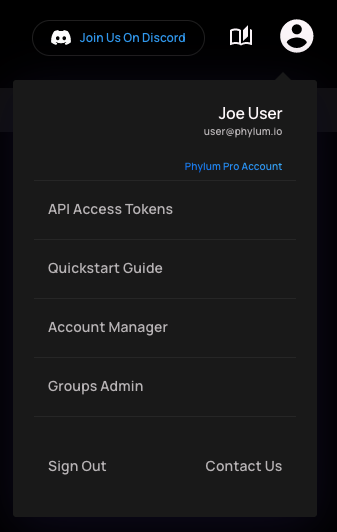
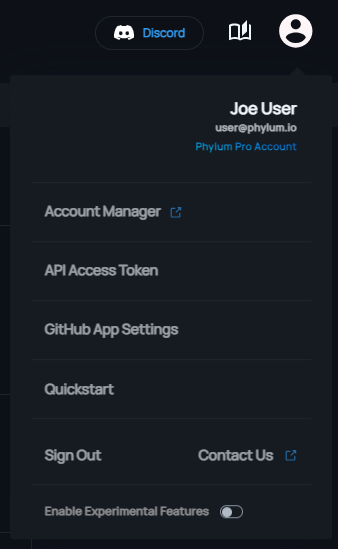
docs: update Groups documentation (#126)
- Update screenshot as the link moved from menu to nav bar
- Add language for new group admin feature
- Update `user-menu.png`

diff --git a/docs/knowledge_base/groups.md b/docs/knowledge_base/groups.md
@@ -6,8 +6,8 @@ Phylum groups allow users to view/submit projects and analysis jobs in a shared 
 2. [Create a project](../cli/commands/phylum_project_create.md) using the `--group` option and your group name
 3. [Analyze](../cli/commands/phylum_analyze.md) the desired dependency files
 
-Any user that is a member of the group will be able to access the analysis results.
+Any user that is a member of the group will be able to access the analysis results. Group administrators can add/remove/promote members, demote administrators, and set group policy that applies to all projects in the group.
 
-Group administration for adding/removing users, etc. can be found in the `Groups Admin` view on the [Phylum UI](https://app.phylum.io/auth/login).
+Group administration for adding/removing users, etc. can be found in the `Groups` view on the [Phylum UI](https://app.phylum.io/auth/login).
 
-![user menu](../../assets/user-menu.png)
+![Groups](../../assets/groups.png)
